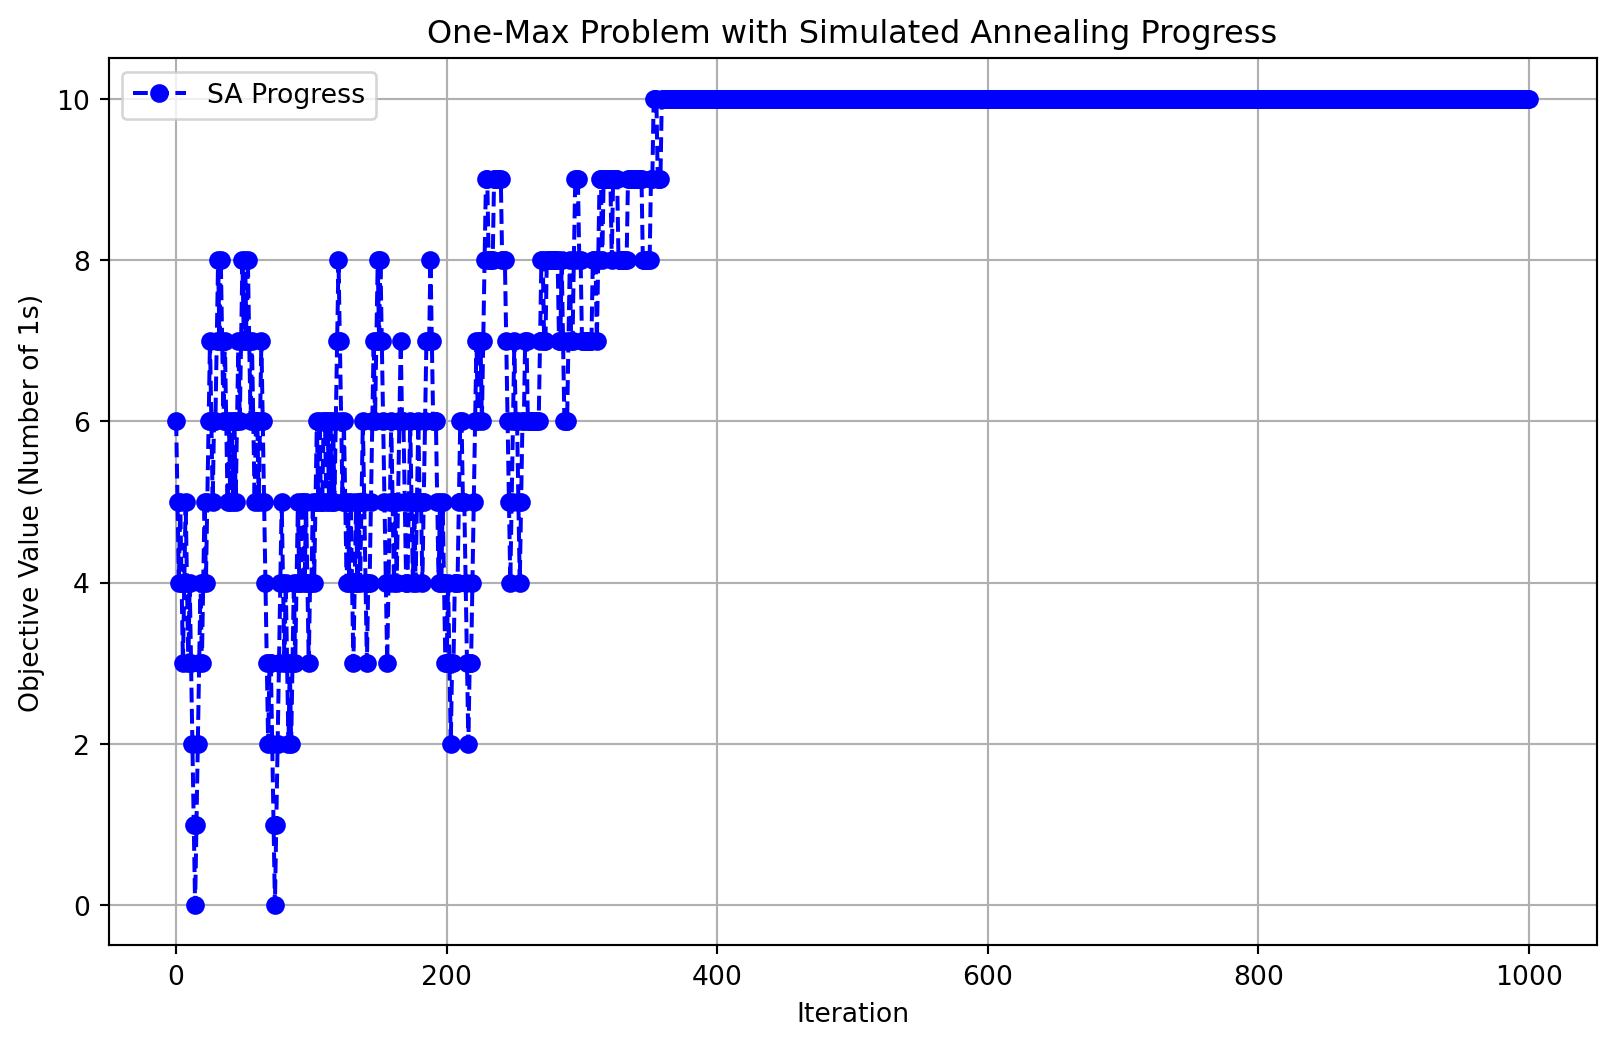
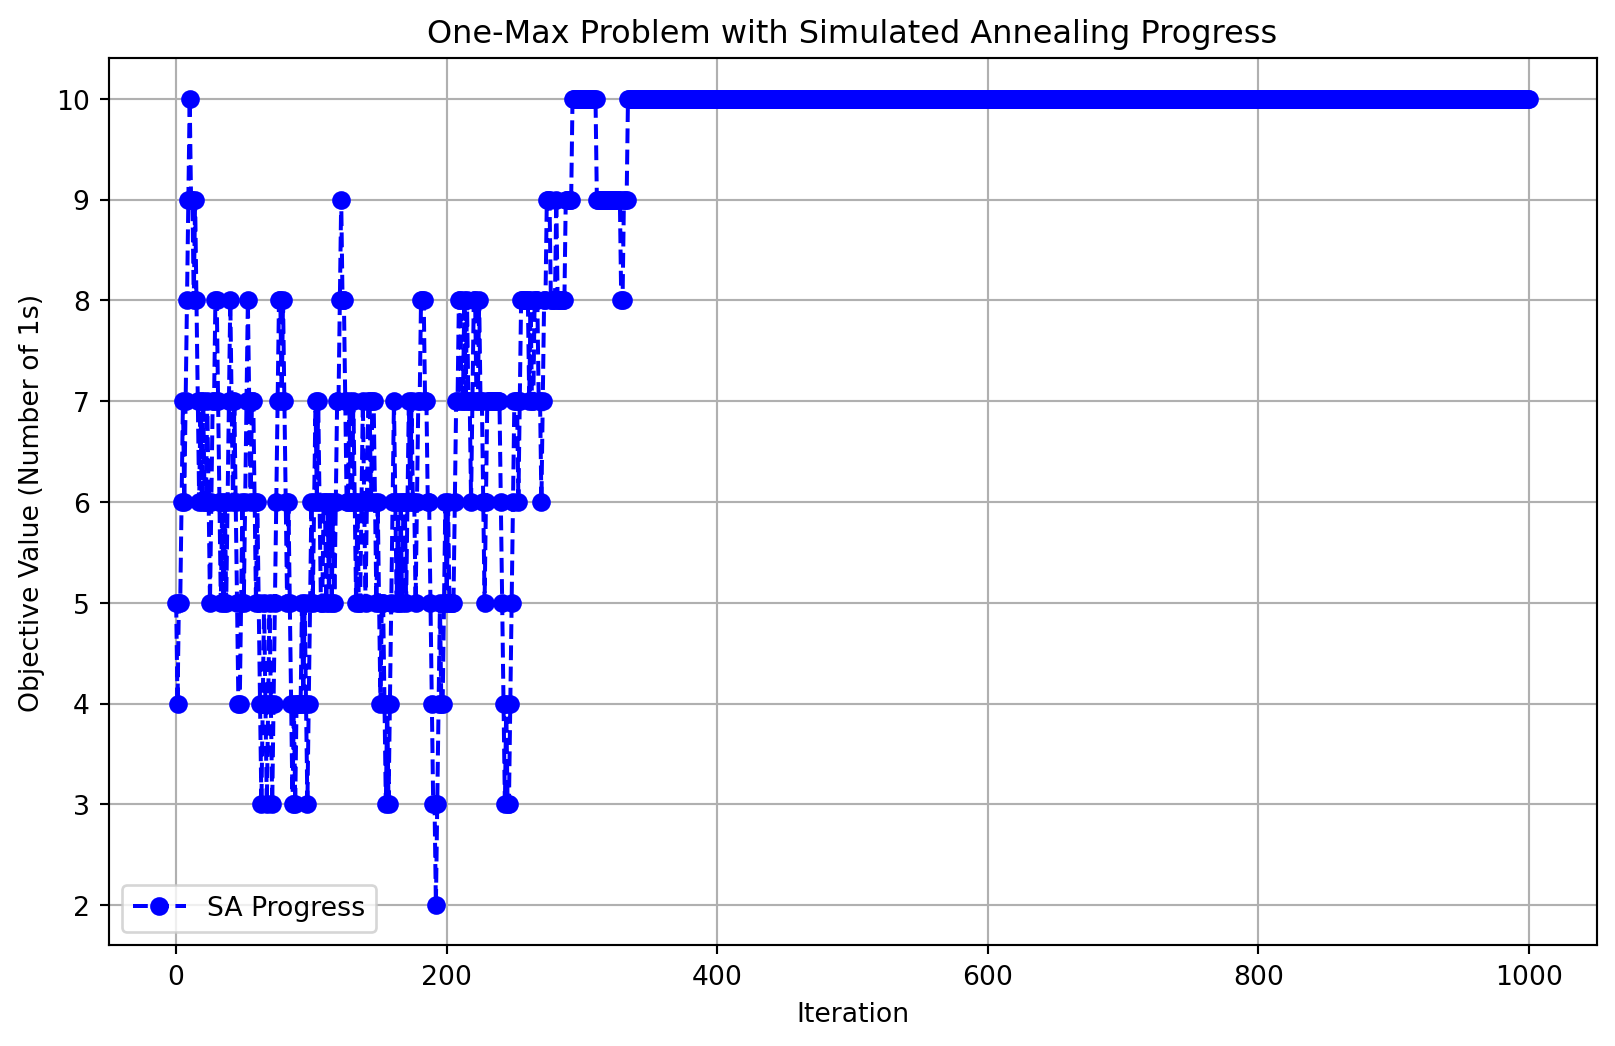
update SA

Changed region(s): [[0.031, 0.0612, 0.9907, 0.8872], [0.0619, 0.0612, 0.2477, 0.1224], [0.031, 0.2753, 0.0619, 0.3059]]

diff --git a/docs/sa.html b/docs/sa.html
@@ -576,7 +576,20 @@ window.Quarto = {
 </div>
 <ul>
 <li>In this case, <span class="math inline">\(p_a^{\text{max}}\)</span>=.329 and 0.007 for <span class="math inline">\({\Psi_t}\)</span> = .9 and 0.2, respectively. This indicates that a lower temperature Image implies a smaller probability Image to accept a non-improving candidate solution as the current solution.</li>
-<li>The value of <span class="math inline">\(f_s\)</span> goes from 2.0 to 1.1, the value of <span class="math inline">\(p_a^{\text{max}}\)</span> goes from 0.329 up to 0.895. This means that in case <span class="math inline">\(f(\nu\)</span>$ is worse than <span class="math inline">\(f(s)\)</span>, a smaller <span class="math inline">\(\Delta_f^{\text{max}}\)</span> implies a higher probability <span class="math inline">\(p_a^{\text{max}}\)</span> to accept a non-improving candidate solution as the current solution.</li>
+<li>The value of <span class="math inline">\(f_s\)</span> goes from 2.0 to 1.1, the value of <span class="math inline">\(p_a^{\text{max}}\)</span> goes from 0.329 up to 0.895. This means that in case <span class="math inline">\(f(\nu)\)</span> is worse than <span class="math inline">\(f(s)\)</span>, a smaller <span class="math inline">\(\Delta_f^{\text{max}}\)</span> implies a higher probability <span class="math inline">\(p_a^{\text{max}}\)</span> to accept a non-improving candidate solution as the current solution.</li>
+<li>Higher temperatures} (<span class="math inline">\(\Psi_t = 0.9\)</span>) allow higher acceptance of worse solutions.
+<ul>
+<li>Example: For <span class="math inline">\(\Delta_f^{\min} = -1.0\)</span>, at <span class="math inline">\(\Psi_t = 0.9\)</span>, <span class="math inline">\(p_a^{\min} = 3.038\)</span>(high).</li>
+</ul></li>
+<li>Lower temperatures <span class="math inline">\(\Psi_t = 0.2\)</span> reject worse solutions more aggressively.
+<ul>
+<li>Example: For <span class="math inline">\(\Delta_f^{\min} = -1.0\)</span>, at <span class="math inline">\(\Psi_t = 0.2\)</span>, <span class="math inline">\(p_a^{\min} = 148.413\)</span>, which results in almost no acceptance.</li>
+</ul></li>
+<li>Acceptance of better solutions} <span class="math inline">\(p_a^{\max}\)</span> is much higher in general but varies based on temperature.
+<ul>
+<li>For <span class="math inline">\(\Psi_t = 0.9\)</span>, <span class="math inline">\(p_a^{\max} = 0.329\)</span> (highlighted in yellow).</li>
+<li>For <span class="math inline">\(\Psi_t = 0.2\)</span>, <span class="math inline">\(p_a^{\max} = 0.007\)</span>, meaning lower temperatures almost never accept bad moves.</li>
+</ul></li>
 </ul>
 <section id="summary-of-cases" class="level3">
 <h3 class="anchored" data-anchor-id="summary-of-cases">Summary of Cases</h3>
@@ -623,7 +636,7 @@ window.Quarto = {
 <h1>Making a Model: One Max with SA</h1>
 <section id="imports-global-variables" class="level2">
 <h2 class="anchored" data-anchor-id="imports-global-variables">Imports, Global Variables</h2>
-<div id="ee9282ee" class="cell" data-execution_count="1">
+<div id="c765d7d8" class="cell" data-execution_count="1">
 <div class="sourceCode cell-code" id="cb1"><pre class="sourceCode python code-with-copy"><code class="sourceCode python"><span id="cb1-1"><a href="#cb1-1" aria-hidden="true" tabindex="-1"></a><span class="co">##Simulated Annealing One-Max Example</span></span>
 <span id="cb1-2"><a href="#cb1-2" aria-hidden="true" tabindex="-1"></a><span class="im">import</span> numpy <span class="im">as</span> np</span>
 <span id="cb1-3"><a href="#cb1-3" aria-hidden="true" tabindex="-1"></a><span class="im">import</span> random</span>
@@ -643,7 +656,7 @@ window.Quarto = {
 <ul>
 <li>The init_sa function initializes a random solution (sol) for the One-Max problem by generating a binary array of size num_bits (default 10), where each element is randomly set to 0 or 1.The initial solution is evaluated using the One-Max function (evaluate) to calculate its fitness (i.e., the sum of 1’s in the array).The function returns the initial solution and its evaluated fitness.</li>
 </ul>
-<div id="314f0891" class="cell" data-execution_count="2">
+<div id="4e5530d9" class="cell" data-execution_count="2">
 <div class="sourceCode cell-code" id="cb2"><pre class="sourceCode python code-with-copy"><code class="sourceCode python"><span id="cb2-1"><a href="#cb2-1" aria-hidden="true" tabindex="-1"></a><span class="co"># Initialization function (I)</span></span>
 <span id="cb2-2"><a href="#cb2-2" aria-hidden="true" tabindex="-1"></a><span class="kw">def</span> init_sa(num_bits):</span>
 <span id="cb2-3"><a href="#cb2-3" aria-hidden="true" tabindex="-1"></a>    sol <span class="op">=</span> np.random.randint(<span class="dv">0</span>, <span class="dv">2</span>, num_bits)</span>
@@ -656,7 +669,7 @@ window.Quarto = {
 <li>This is done by randomly selecting an index in the binary array and toggling the bit (changing 1 to 0 or 0 to 1).</li>
 <li>This new solution represents the neighboring candidate that will be evaluated next, which is a small random change to the current solution.</li>
 </ul>
-<div id="1155ebbc" class="cell" data-execution_count="3">
+<div id="ebf8ae85" class="cell" data-execution_count="3">
 <div class="sourceCode cell-code" id="cb3"><pre class="sourceCode python code-with-copy"><code class="sourceCode python"><span id="cb3-1"><a href="#cb3-1" aria-hidden="true" tabindex="-1"></a><span class="co"># Transition function (T)</span></span>
 <span id="cb3-2"><a href="#cb3-2" aria-hidden="true" tabindex="-1"></a><span class="kw">def</span> transit(sol):</span>
 <span id="cb3-3"><a href="#cb3-3" aria-hidden="true" tabindex="-1"></a>    new_sol <span class="op">=</span> sol.copy()</span>
@@ -670,7 +683,7 @@ window.Quarto = {
 <ul>
 <li>The evaluate function calculates the fitness of the current solution by summing up the number of 1’s in the binary array (sol).The One-Max problem aims to maximize this value, with the goal being to find the solution with all bits set to 1.</li>
 </ul>
-<div id="62b7b5e4" class="cell" data-execution_count="4">
+<div id="e7289171" class="cell" data-execution_count="4">
 <div class="sourceCode cell-code" id="cb4"><pre class="sourceCode python code-with-copy"><code class="sourceCode python"><span id="cb4-1"><a href="#cb4-1" aria-hidden="true" tabindex="-1"></a><span class="co"># Evaluation Function (E): One-max function</span></span>
 <span id="cb4-2"><a href="#cb4-2" aria-hidden="true" tabindex="-1"></a><span class="kw">def</span> evaluate(sol):</span>
 <span id="cb4-3"><a href="#cb4-3" aria-hidden="true" tabindex="-1"></a>    <span class="cf">return</span> np.<span class="bu">sum</span>(sol)</span></code><button title="Copy to Clipboard" class="code-copy-button"><i class="bi"></i></button></pre></div>
@@ -688,7 +701,7 @@ window.Quarto = {
 </ul></li>
 <li>The function returns True if the new solution is accepted, otherwise False.</li>
 </ul>
-<div id="d2c7965e" class="cell" data-execution_count="5">
+<div id="00e7324b" class="cell" data-execution_count="5">
 <div class="sourceCode cell-code" id="cb5"><pre class="sourceCode python code-with-copy"><code class="sourceCode python"><span id="cb5-1"><a href="#cb5-1" aria-hidden="true" tabindex="-1"></a><span class="co"># Determination function for SA (D)</span></span>
 <span id="cb5-2"><a href="#cb5-2" aria-hidden="true" tabindex="-1"></a><span class="kw">def</span> determine(neighbor_value, current_value, temperature):</span>
 <span id="cb5-3"><a href="#cb5-3" aria-hidden="true" tabindex="-1"></a>    <span class="cf">if</span> neighbor_value <span class="op">&gt;</span> current_value:</span>
@@ -715,7 +728,7 @@ window.Quarto = {
 <li>The number of iterations is incremented.</li>
 <li>After the loop terminates (either because the temperature has cooled sufficiently or the maximum number of iterations has been reached), the function returns:best_sol: The best solution found during the process.best_value: The fitness value of the best solution.value_history: A list of the fitness values over time, useful for visualizing the algorithm’s progress.</li>
 </ul>
-<div id="f960b657" class="cell" data-execution_count="6">
+<div id="62370f01" class="cell" data-execution_count="6">
 <div class="sourceCode cell-code" id="cb6"><pre class="sourceCode python code-with-copy"><code class="sourceCode python"><span id="cb6-1"><a href="#cb6-1" aria-hidden="true" tabindex="-1"></a><span class="co"># Simulated Annealing (SA) function</span></span>
 <span id="cb6-2"><a href="#cb6-2" aria-hidden="true" tabindex="-1"></a><span class="kw">def</span> simulated_annealing(num_bits):</span>
 <span id="cb6-3"><a href="#cb6-3" aria-hidden="true" tabindex="-1"></a>    current_sol, current_value <span class="op">=</span> init_sa(num_bits)</span>
@@ -751,7 +764,7 @@ window.Quarto = {
 <li>The temperature gradually cools down, reducing the chance of accepting worse solutions as the algorithm progresses.</li>
 <li>Finally, the results are printed and plotted for visual analysis.</li>
 </ul>
-<div id="362dc00b" class="cell" data-execution_count="7">
+<div id="34e94c99" class="cell" data-execution_count="7">
 <div class="sourceCode cell-code" id="cb7"><pre class="sourceCode python code-with-copy"><code class="sourceCode python"><span id="cb7-1"><a href="#cb7-1" aria-hidden="true" tabindex="-1"></a><span class="co"># Main execution</span></span>
 <span id="cb7-2"><a href="#cb7-2" aria-hidden="true" tabindex="-1"></a>start_time <span class="op">=</span> time.time()</span>
 <span id="cb7-3"><a href="#cb7-3" aria-hidden="true" tabindex="-1"></a>best_sol, best_value, value_history <span class="op">=</span> simulated_annealing(num_bits)</span>
@@ -762,7 +775,7 @@ window.Quarto = {
 </section>
 <section id="output" class="level2">
 <h2 class="anchored" data-anchor-id="output">Output</h2>
-<div id="c9f12925" class="cell" data-execution_count="8">
+<div id="2f59b41e" class="cell" data-execution_count="8">
 <div class="sourceCode cell-code" id="cb8"><pre class="sourceCode python code-with-copy"><code class="sourceCode python"><span id="cb8-1"><a href="#cb8-1" aria-hidden="true" tabindex="-1"></a><span class="co"># Output results (O)</span></span>
 <span id="cb8-2"><a href="#cb8-2" aria-hidden="true" tabindex="-1"></a><span class="bu">print</span>(<span class="ss">f"Best solution: </span><span class="sc">{</span>best_sol<span class="sc">}</span><span class="ss">"</span>)</span>
 <span id="cb8-3"><a href="#cb8-3" aria-hidden="true" tabindex="-1"></a><span class="bu">print</span>(<span class="ss">f"Best value (number of 1s): </span><span class="sc">{</span>best_value<span class="sc">}</span><span class="ss">"</span>)</span>
@@ -780,7 +793,7 @@ window.Quarto = {
 <div class="cell-output cell-output-stdout">
 <pre><code>Best solution: [1 1 1 1 1 1 1 1 1 1]
 Best value (number of 1s): 10
-Execution time: 0.006007 seconds</code></pre>
+Execution time: 0.009061 seconds</code></pre>
 </div>
 <div class="cell-output cell-output-display">
 <div>
@@ -802,7 +815,7 @@ Execution time: 0.006007 seconds</code></pre>
 </ul>
 <section id="example-results" class="level2">
 <h2 class="anchored" data-anchor-id="example-results">Example Results</h2>
-<div id="da64442e" class="cell" data-execution_count="9">
+<div id="740722a0" class="cell" data-execution_count="9">
 <div class="sourceCode cell-code" id="cb10"><pre class="sourceCode python code-with-copy"><code class="sourceCode python"><span id="cb10-1"><a href="#cb10-1" aria-hidden="true" tabindex="-1"></a><span class="im">import</span> numpy <span class="im">as</span> np</span>
 <span id="cb10-2"><a href="#cb10-2" aria-hidden="true" tabindex="-1"></a><span class="im">import</span> random</span>
 <span id="cb10-3"><a href="#cb10-3" aria-hidden="true" tabindex="-1"></a><span class="im">import</span> math</span>
@@ -897,14 +910,14 @@ Execution time: 0.006007 seconds</code></pre>
 <span id="cb10-92"><a href="#cb10-92" aria-hidden="true" tabindex="-1"></a>plt.grid(<span class="va">True</span>)</span>
 <span id="cb10-93"><a href="#cb10-93" aria-hidden="true" tabindex="-1"></a>plt.show()</span></code><button title="Copy to Clipboard" class="code-copy-button"><i class="bi"></i></button></pre></div>
 <div class="cell-output cell-output-stdout">
-<pre><code>Optimal x: -11.07029246181302
-Optimal value: 18.063587494255678
-Execution time: 0.012545 seconds</code></pre>
+<pre><code>Optimal x: 0.0005295094464530248
+Optimal value: 0.0021329698704701805
+Execution time: 0.013528 seconds</code></pre>
 </div>
 <div class="cell-output cell-output-display">
 <div>
 <figure class="figure">
-<p><img src="sa_files/figure-html/cell-10-output-2.png" width="808" height="523" class="figure-img"></p>
+<p><img src="sa_files/figure-html/cell-10-output-2.png" width="821" height="523" class="figure-img"></p>
 </figure>
 </div>
 </div>
@@ -951,7 +964,7 @@ Execution time: 0.012545 seconds</code></pre>
 </section>
 <section id="portfolio-diversification-with-sa" class="level1">
 <h1>Portfolio Diversification With SA</h1>
-<div id="8c8f75e4" class="cell" data-execution_count="10">
+<div id="762efe5d" class="cell" data-execution_count="10">
 <div class="sourceCode cell-code" id="cb12"><pre class="sourceCode python code-with-copy"><code class="sourceCode python"><span id="cb12-1"><a href="#cb12-1" aria-hidden="true" tabindex="-1"></a><span class="co">#Simulated Annealing Finance Example</span></span>
 <span id="cb12-2"><a href="#cb12-2" aria-hidden="true" tabindex="-1"></a></span>
 <span id="cb12-3"><a href="#cb12-3" aria-hidden="true" tabindex="-1"></a><span class="im">import</span> yfinance <span class="im">as</span> yf</span>
@@ -1056,7 +1069,7 @@ Execution time: 0.012545 seconds</code></pre>
 <span id="cb12-102"><a href="#cb12-102" aria-hidden="true" tabindex="-1"></a><span class="bu">print</span>(<span class="ss">f"Best Sharpe Ratio: </span><span class="sc">{</span>best_sharpe<span class="sc">:.4f}</span><span class="ss">"</span>)</span>
 <span id="cb12-103"><a href="#cb12-103" aria-hidden="true" tabindex="-1"></a><span class="bu">print</span>(<span class="ss">f"Execution time: </span><span class="sc">{</span>execution_time<span class="sc">:.6f}</span><span class="ss"> seconds"</span>)</span></code><button title="Copy to Clipboard" class="code-copy-button"><i class="bi"></i></button></pre></div>
 <div class="cell-output cell-output-stderr">
-<pre><code>[                       0%                       ][**********            20%                       ]  2 of 10 completed[**************        30%                       ]  3 of 10 completed[*******************   40%                       ]  4 of 10 completed[**********************50%                       ]  5 of 10 completed[**********************60%****                   ]  6 of 10 completed[**********************70%*********              ]  7 of 10 completed[**********************80%*************          ]  8 of 10 completed[**********************90%******************     ]  9 of 10 completed[*********************100%***********************]  10 of 10 completed</code></pre>
+<pre><code>[                       0%                       ][                       0%                       ][**************        30%                       ]  3 of 10 completed[**************        30%                       ]  3 of 10 completed[**********************50%                       ]  5 of 10 completed[**********************50%                       ]  5 of 10 completed[**********************70%*********              ]  7 of 10 completed[**********************80%*************          ]  8 of 10 completed[**********************90%******************     ]  9 of 10 completed[*********************100%***********************]  10 of 10 completed</code></pre>
 </div>
 <div class="cell-output cell-output-display">
 <div>
@@ -1067,18 +1080,18 @@ Execution time: 0.012545 seconds</code></pre>
 </div>
 <div class="cell-output cell-output-stdout">
 <pre><code>Optimized Portfolio:
-AAPL: 0.1525
-GOOGL: 0.0000
-MSFT: 0.0000
-AMZN: 0.1291
-TSLA: 0.0062
-NFLX: 0.2399
-NVDA: 0.0377
-META: 0.3130
-DIS: 0.1215
-BA: 0.0000
-Best Sharpe Ratio: 2.7708
-Execution time: 0.086151 seconds</code></pre>
+AAPL: 0.1242
+GOOGL: 0.0027
+MSFT: 0.0003
+AMZN: 0.0000
+TSLA: 0.0001
+NFLX: 0.2537
+NVDA: 0.0570
+META: 0.4127
+DIS: 0.1484
+BA: 0.0008
+Best Sharpe Ratio: 2.7361
+Execution time: 0.108426 seconds</code></pre>
 </div>
 </div>
 <section id="our-hill-climbing-finance-model-was-better.-why" class="level2">
